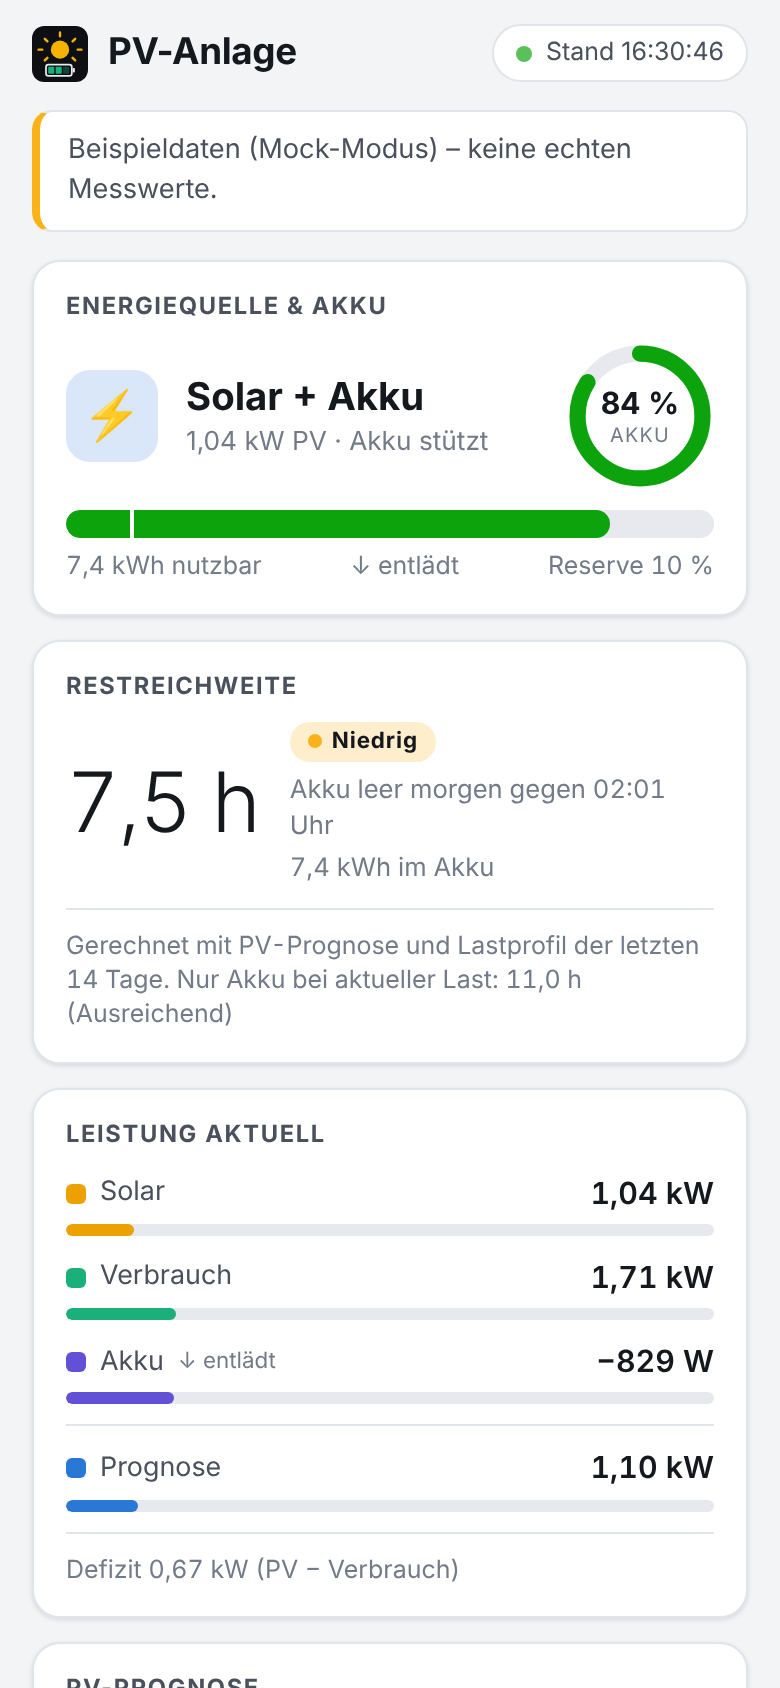
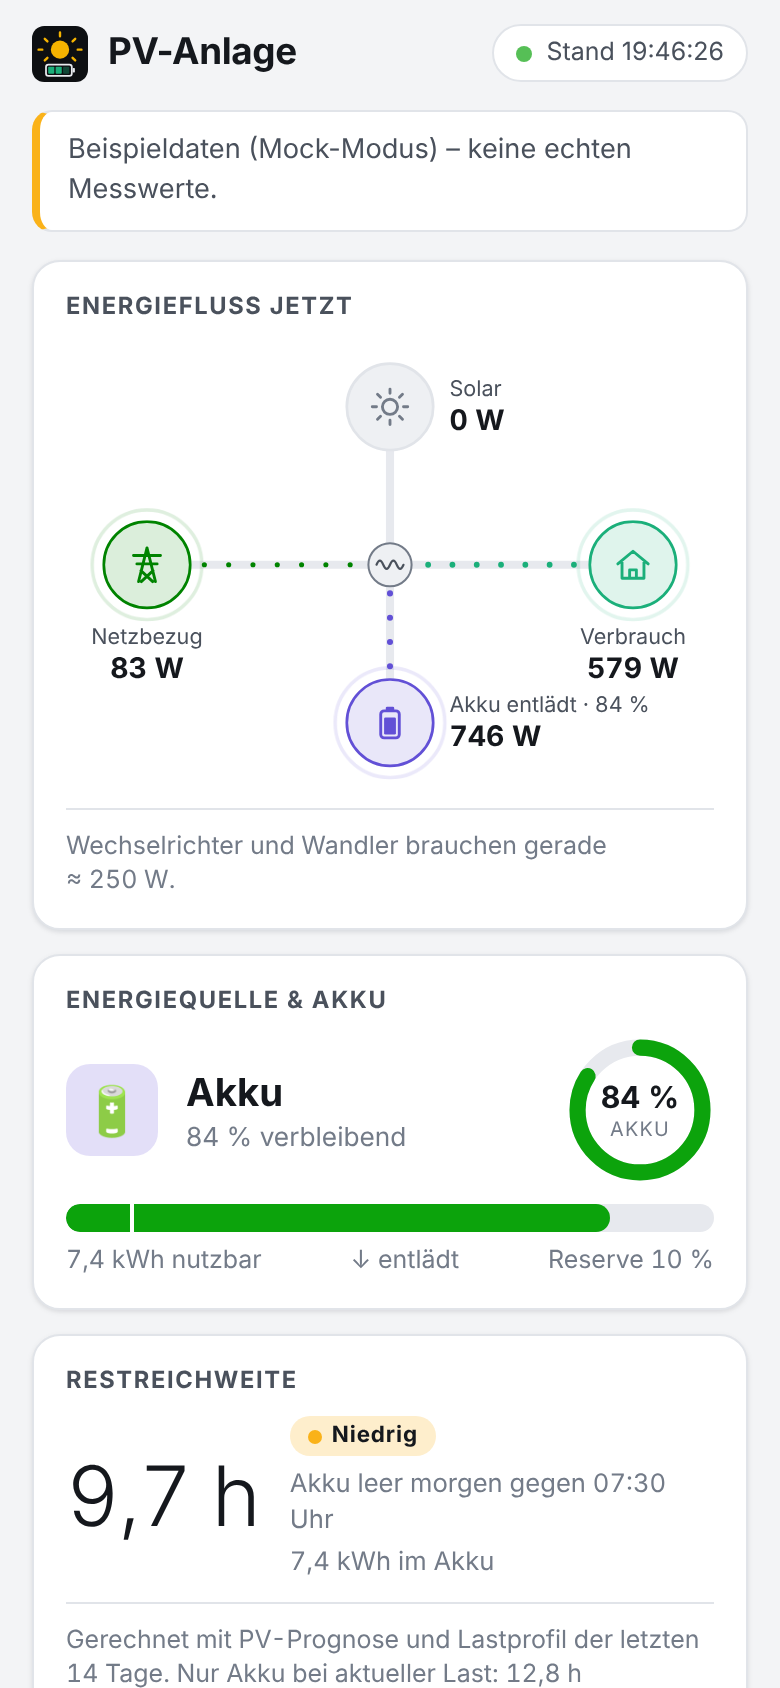
Energiefluss als animierte Grafik oben (1.4.0)
- Neue Karte "Energiefluss jetzt": PV oben, Netz links, Haus rechts, Akku
  unten, Wechselrichter in der Mitte. Punkte laufen in Flussrichtung, Tempo
  und Strichstärke wachsen mit der Leistung; Einspeisung und Entladen laufen
  rückwärts. Akku-Symbol zeigt den Ladezustand. Darunter der momentane
  Eigenverbrauch von Wechselrichter und Wandlern. Bei "Bewegung reduzieren"
  steht die Animation; Textalternative für Screenreader.
- Desktop: Grafik über zwei Spalten und drei Zeilen, rechts Energiequelle,
  Reichweite und Leistung.
- API: neues Feld grid_w (Netzleistung, Bezug positiv) aus
  measurements.grid oder dem MQTT-Eingang von SolarDaily (nur frische Werte).
- Leistungsangaben mit geschütztem Leerzeichen vor der Einheit.
- README, Beispielkonfiguration und Screenshots (Mock) aktualisiert;
  Service-Worker-Cache v6.

diff --git a/web/app.js b/web/app.js
@@ -20,7 +20,7 @@
   /* ---------- Formatierung ---------- */
   function fmtW(w) {
     if (!isNum(w)) return '–';
-    return Math.abs(w) >= 1000 ? NF2.format(w / 1000) + ' kW' : NF0.format(Math.round(w)) + ' W';
+    return Math.abs(w) >= 1000 ? NF2.format(w / 1000) + '\u00a0kW' : NF0.format(Math.round(w)) + '\u00a0W';
   }
   const fmtKwh = v => (isNum(v) ? NF1.format(v) + ' kWh' : '–');
   const fmtPct = v => (isNum(v) ? NF1.format(v) + ' %' : '–');
@@ -77,6 +77,8 @@
 
   /* ---------- Rendern ---------- */
   function render(d) {
+    renderFlow(d);
+
     // Energiequelle + Ring
     const src = sourceInfo(d);
     const icon = $('srcIcon');
@@ -175,6 +177,74 @@
       .map(([k, v, key]) => d['bilanz_plausibel_' + key] === false ? k + ' – (' + IMPLAUSIBLE + ')' : isNum(v) ? k + ' ' + NF1.format(v) + ' kWh' : null)
       .filter(Boolean);
     setText('sysOwnLine', own.length ? 'Eigenverbrauch der Anlage: ' + own.join(' · ') : '');
+  }
+
+  /* ---------- Energiefluss ---------- */
+  // Leitungen sind gezeichnet: PV -> WR, Netz -> WR, WR -> Haus, WR -> Akku. Positive Leistung
+  // fliesst in Zeichenrichtung, negative (Einspeisung, Entladen) rueckwaerts.
+  const FLOW_MIN_W = 10;
+
+  function setFlow(id, w, minW) {
+    const el = $(id);
+    const on = isNum(w) && Math.abs(w) >= minW;
+    el.classList.toggle('off', !on);
+    el.classList.toggle('rev', on && w < 0);
+    if (!on) return false;
+    // Tempo und Strichstaerke wachsen mit der Leistung (Wurzel: kleine Fluesse bleiben sichtbar)
+    const ref = Math.max(meta.display.maxPvW, meta.display.maxLoadW, 1);
+    const k = Math.sqrt(Math.min(1, Math.abs(w) / ref));
+    const dur = (3 - 2.5 * k).toFixed(1) + 's';
+    if (el.style.animationDuration !== dur) el.style.animationDuration = dur;
+    el.style.strokeWidth = (3.5 + 3.5 * k).toFixed(1);
+    return true;
+  }
+
+  function setVal(id, text, na) {
+    setText(id, text);
+    $(id).classList.toggle('na', !!na);
+  }
+
+  function renderFlow(d) {
+    const pv = d.pv_w, load = d.load_w, bat = d.bat_w, grid = d.grid_w;
+
+    $('nPv').classList.toggle('on', setFlow('flPv', pv, FLOW_MIN_W));
+    setVal('vPv', fmtW(pv));
+
+    $('nLoad').classList.toggle('on', setFlow('flLoad', load, FLOW_MIN_W));
+    setVal('vLoad', fmtW(load));
+
+    const gridOn = setFlow('flGrid', grid, FLOW_MIN_W);
+    $('nGrid').classList.toggle('on', gridOn);
+    setText('lGrid', !isNum(grid) ? 'Netz' : !gridOn ? 'Netz' : grid > 0 ? 'Netzbezug' : 'Einspeisung');
+    setVal('vGrid', isNum(grid) ? fmtW(gridOn ? Math.abs(grid) : 0) : '–', !isNum(grid));
+
+    // Akku: Schwelle wie bat_direction (± 50 W = Ruhe)
+    const batOn = setFlow('flBat', bat, 50);
+    $('nBat').classList.toggle('on', batOn);
+    const soc = isNum(d.soc) ? Math.min(100, Math.max(0, d.soc)) : null;
+    setText('lBat', 'Akku ' + (batOn ? (bat > 0 ? 'lädt' : 'entlädt') : 'in Ruhe') + (soc !== null ? ' · ' + NF0.format(soc) + ' %' : ''));
+    setVal('vBat', isNum(bat) ? fmtW(Math.abs(bat)) : '–');
+    const lvl = $('batLevel');
+    const h = soc !== null ? 12 * soc / 100 : 0;
+    lvl.setAttribute('height', h.toFixed(2));
+    lvl.setAttribute('y', (19 - h).toFixed(2));
+
+    // Rest = Eigenverbrauch der Anlage (Momentaufnahme; Werte nicht zeitgleich gemessen)
+    let note = '';
+    if (!isNum(grid)) {
+      note = 'Netzleistung nicht konfiguriert (measurements.grid oder SolarDaily mit MQTT).';
+    } else if (isNum(pv) && isNum(load) && isNum(bat)) {
+      const own = pv + grid - load - bat;
+      if (own >= 0) note = 'Wechselrichter und Wandler brauchen gerade ≈\u00a0' + fmtW(own) + '.';
+    }
+    setText('flowNote', note);
+
+    const parts = ['Solar ' + fmtW(pv)];
+    if (isNum(grid)) parts.push(gridOn ? (grid < 0 ? 'Einspeisung ' : 'Netzbezug ') + fmtW(Math.abs(grid)) : 'Netz 0 W');
+    parts.push('Verbrauch ' + fmtW(load));
+    if (isNum(bat)) parts.push('Akku ' + (batOn ? (bat > 0 ? 'lädt ' : 'entlädt ') + fmtW(Math.abs(bat)) : 'in Ruhe'));
+    if (soc !== null) parts.push('Ladezustand ' + NF0.format(soc) + ' %');
+    setText('flowTitle', 'Energiefluss: ' + parts.join(', '));
   }
 
   /* ---------- Energiebilanz heute ---------- */

diff --git a/web/index.html b/web/index.html
@@ -32,6 +32,73 @@
   <div class="notice" id="notice" hidden></div>
 
   <main class="grid">
+    <!-- Energiefluss: PV oben, Netz links, Haus rechts, Akku unten, Wechselrichter in der Mitte -->
+    <section class="card flow" aria-labelledby="h-flow">
+      <h2 id="h-flow">Energiefluss jetzt</h2>
+      <svg class="flow-svg num" viewBox="0 0 480 330" role="img" aria-labelledby="flowTitle">
+        <title id="flowTitle">Energiefluss</title>
+        <g class="flow-lines">
+          <path class="line-track" d="M240 80V149"></path>
+          <path class="line-track" d="M92 165H224"></path>
+          <path class="line-track" d="M256 165H388"></path>
+          <path class="line-track" d="M240 181V250"></path>
+          <path class="line-flow f-pv off" id="flPv" d="M240 80V149"></path>
+          <path class="line-flow f-grid off" id="flGrid" d="M92 165H224"></path>
+          <path class="line-flow f-load off" id="flLoad" d="M256 165H388"></path>
+          <path class="line-flow f-bat off" id="flBat" d="M240 181V250"></path>
+        </g>
+
+        <g class="hub">
+          <circle cx="240" cy="165" r="16"></circle>
+          <path d="M230 165q2.5-6 5 0t5 0t5 0t5 0"></path>
+        </g>
+
+        <g class="node n-pv" id="nPv" transform="translate(240 48)">
+          <circle class="pulse" r="32"></circle>
+          <circle class="disc" r="32"></circle>
+          <g class="ico" transform="translate(-15 -15) scale(1.25)">
+            <circle cx="12" cy="12" r="4.5"></circle>
+            <path class="rays" d="M12 1.5v2.5M12 20v2.5M1.5 12H4M20 12h2.5M4.6 4.6l1.8 1.8M17.6 17.6l1.8 1.8M4.6 19.4l1.8-1.8M17.6 6.4l1.8-1.8"></path>
+          </g>
+        </g>
+        <text class="lbl" x="284" y="40">Solar</text>
+        <text class="val" id="vPv" x="284" y="65">–</text>
+
+        <g class="node n-grid" id="nGrid" transform="translate(60 165)">
+          <circle class="pulse" r="32"></circle>
+          <circle class="disc" r="32"></circle>
+          <g class="ico" transform="translate(-15 -15) scale(1.25)">
+            <path d="M12 2 7 22M12 2l5 20M4 6.5h16M6 11.5h12M8.4 15.5l7 6.5M15.6 15.5l-7 6.5"></path>
+          </g>
+        </g>
+        <text class="lbl mid" id="lGrid" x="60" y="224">Netz</text>
+        <text class="val mid" id="vGrid" x="60" y="249">–</text>
+
+        <g class="node n-load" id="nLoad" transform="translate(420 165)">
+          <circle class="pulse" r="32"></circle>
+          <circle class="disc" r="32"></circle>
+          <g class="ico" transform="translate(-15 -15) scale(1.25)">
+            <path d="M3 11.5 12 4l9 7.5M5.5 9.5V20h13V9.5M10 20v-5h4v5"></path>
+          </g>
+        </g>
+        <text class="lbl mid" x="420" y="224">Verbrauch</text>
+        <text class="val mid" id="vLoad" x="420" y="249">–</text>
+
+        <g class="node n-bat" id="nBat" transform="translate(240 282)">
+          <circle class="pulse" r="32"></circle>
+          <circle class="disc" r="32"></circle>
+          <g class="ico" transform="translate(-15 -15) scale(1.25)">
+            <rect x="6.5" y="5" width="11" height="16" rx="2"></rect>
+            <rect class="cap" x="9.5" y="2.5" width="5" height="2.5" rx="0.8"></rect>
+            <rect class="level" id="batLevel" x="8.5" y="19" width="7" height="0" rx="0.8"></rect>
+          </g>
+        </g>
+        <text class="lbl" id="lBat" x="284" y="274">Akku</text>
+        <text class="val" id="vBat" x="284" y="299">–</text>
+      </svg>
+      <div class="sub-line muted num" id="flowNote"></div>
+    </section>
+
     <!-- Energiequelle + Akku -->
     <section class="card source" aria-labelledby="h-source">
       <h2 id="h-source">Energiequelle &amp; Akku</h2>

diff --git a/web/app.css b/web/app.css
@@ -242,6 +242,54 @@ body {
 .table-wrap td { text-align: right; padding: 4px 8px; border-bottom: 1px solid var(--border); }
 .table-wrap th:first-child, .table-wrap td:first-child { text-align: left; }
 
+/* ---------- Energiefluss ---------- */
+@media (min-width: 720px) { .card.flow { grid-column: 1 / -1; } }
+/* breit: Grafik links ueber drei Zeilen, rechts Energiequelle, Reichweite, Leistung untereinander */
+@media (min-width: 1120px) {
+  .card.flow { grid-column: span 2; grid-row: span 3; display: flex; flex-direction: column; }
+  .card.flow .flow-svg { max-width: 660px; max-height: 470px; margin: auto; }
+}
+.flow-svg { display: block; width: 100%; max-width: 560px; max-height: 400px; margin: 0 auto; overflow: visible; }
+.flow-svg .line-track { fill: none; stroke: var(--track); stroke-width: 6; stroke-linecap: round; }
+.flow-svg .line-flow {
+  fill: none; stroke-width: 5; stroke-linecap: round; stroke-dasharray: 0 18;
+  animation: flow-dots 1.6s linear infinite; transition: opacity .4s;
+}
+.flow-svg .line-flow.rev { animation-direction: reverse; }
+.flow-svg .line-flow.off { opacity: 0; }
+.flow-svg .f-pv { stroke: var(--pv); }
+.flow-svg .f-grid { stroke: var(--grid); }
+.flow-svg .f-load { stroke: var(--load); }
+.flow-svg .f-bat { stroke: var(--bat); }
+@keyframes flow-dots { to { stroke-dashoffset: -18; } }
+
+.flow-svg .hub circle { fill: var(--card-2); stroke: var(--ink-3); stroke-width: 1.5; }
+.flow-svg .hub path { fill: none; stroke: var(--ink-2); stroke-width: 1.6; stroke-linecap: round; }
+
+.flow-svg .node { --c: var(--ink-3); }
+.flow-svg .n-pv { --c: var(--pv); }
+.flow-svg .n-grid { --c: var(--grid); }
+.flow-svg .n-load { --c: var(--load); }
+.flow-svg .n-bat { --c: var(--bat); }
+.flow-svg .disc { fill: var(--card-2); stroke: var(--border); stroke-width: 2; transition: fill .4s, stroke .4s; }
+.flow-svg .ico { fill: none; stroke: var(--ink-3); stroke-width: 1.7; stroke-linecap: round; stroke-linejoin: round; transition: stroke .4s; }
+.flow-svg .ico .cap { fill: var(--ink-3); stroke: none; }
+.flow-svg .ico .level { fill: var(--ink-3); stroke: none; }
+.flow-svg .node.on .disc { fill: color-mix(in srgb, var(--c) 14%, var(--card)); stroke: var(--c); }
+.flow-svg .node.on .ico { stroke: var(--c); }
+.flow-svg .node.on .ico .cap, .flow-svg .node.on .ico .level { fill: var(--c); }
+.flow-svg .pulse { fill: none; stroke: var(--c); stroke-width: 2; opacity: 0; transform-box: fill-box; transform-origin: center; }
+.flow-svg .node.on .pulse { animation: node-pulse 2.6s ease-out infinite; }
+@keyframes node-pulse { from { opacity: .55; transform: scale(1); } to { opacity: 0; transform: scale(1.35); } }
+.flow-svg .n-pv.on .rays { transform-box: fill-box; transform-origin: center; animation: sun-turn 24s linear infinite; }
+@keyframes sun-turn { to { transform: rotate(360deg); } }
+
+.flow-svg text { fill: var(--ink); }
+.flow-svg .lbl { font-size: 16px; fill: var(--ink-2); }
+.flow-svg .val { font-size: 21px; font-weight: 650; }
+.flow-svg .mid { text-anchor: middle; }
+.flow-svg .na { fill: var(--ink-3); font-weight: 400; }
+
 .foot { max-width: 1240px; margin: 16px auto 0; font-size: 0.72rem; text-align: center; }
 
 @media (prefers-reduced-motion: reduce) {

diff --git a/test/metrics.test.js b/test/metrics.test.js
@@ -46,7 +46,7 @@ test('Zeit: lokale Mitternacht und Ankerzeiten folgen der Sommer-/Winterzeit', (
 test('Felder: zuerst alle der Beispielantwort in gleicher Reihenfolge, danach die Prognose-Ergaenzungen', () => {
     const sample = JSON.parse(fs.readFileSync(path.join(__dirname, '..', 'reference', 'sample', 'pv-data.example.json'), 'utf8'));
     const out = m.computePayload(raw(), null, OPTS);
-    assert.deepEqual(Object.keys(out), [...Object.keys(sample), ...['forecast_today_kwh', 'forecast_today_remaining_kwh', 'forecast_tomorrow_peak_w', 'forecast_tomorrow_peak_ts', 'forecast_yesterday_kwh', 'actual_yesterday_kwh', 'smart_range_empty_ts', 'smart_range_min_kwh', 'smart_range_min_ts', 'smart_range_until_ts', 'smart_range_basis', 'daily_bat_in_kwh', 'daily_bat_out_kwh', 'system_own_woche_kwh', 'system_own_season_kwh', 'system_own_jahr_kwh', 'bilanz_plausibel_heute', 'bilanz_plausibel_woche', 'bilanz_plausibel_season', 'bilanz_plausibel_jahr']]);
+    assert.deepEqual(Object.keys(out), [...Object.keys(sample), ...['forecast_today_kwh', 'forecast_today_remaining_kwh', 'forecast_tomorrow_peak_w', 'forecast_tomorrow_peak_ts', 'forecast_yesterday_kwh', 'actual_yesterday_kwh', 'smart_range_empty_ts', 'smart_range_min_kwh', 'smart_range_min_ts', 'smart_range_until_ts', 'smart_range_basis', 'daily_bat_in_kwh', 'daily_bat_out_kwh', 'system_own_woche_kwh', 'system_own_season_kwh', 'system_own_jahr_kwh', 'bilanz_plausibel_heute', 'bilanz_plausibel_woche', 'bilanz_plausibel_season', 'bilanz_plausibel_jahr', 'grid_w']]);
 });
 
 
@@ -281,6 +281,8 @@ test('WR-Eigenverbrauch, Akku-Richtung, Rundung', () => {
     assert.equal(m.computePayload(raw({ bat_w: -50 }), null, OPTS).bat_direction, 'idle');
     assert.equal(m.computePayload(raw({ forecast_tomorrow_kwh: 12.46 }), null, OPTS).forecast_tomorrow_kwh, 12.5);
     assert.equal(out.ts, '2026-06-15T10:00:00.000Z');
+    assert.equal(out.grid_w, null);
+    assert.equal(m.computePayload(raw({ grid_w: -120.6 }), null, OPTS).grid_w, -121);
 });
 
 

diff --git a/test/server.test.js b/test/server.test.js
@@ -30,7 +30,7 @@ test('Mock-Modus: /api/pv liefert alle Felder der Beispielantwort mit passenden 
         assert.equal(res.status, 200);
         assert.equal(res.headers.get('access-control-allow-origin'), '*');
         const body = await res.json();
-        const expected = [...Object.keys(sample), ...['forecast_today_kwh', 'forecast_today_remaining_kwh', 'forecast_tomorrow_peak_w', 'forecast_tomorrow_peak_ts', 'forecast_yesterday_kwh', 'actual_yesterday_kwh', 'smart_range_empty_ts', 'smart_range_min_kwh', 'smart_range_min_ts', 'smart_range_until_ts', 'smart_range_basis', 'daily_bat_in_kwh', 'daily_bat_out_kwh', 'system_own_woche_kwh', 'system_own_season_kwh', 'system_own_jahr_kwh', 'bilanz_plausibel_heute', 'bilanz_plausibel_woche', 'bilanz_plausibel_season', 'bilanz_plausibel_jahr']];
+        const expected = [...Object.keys(sample), ...['forecast_today_kwh', 'forecast_today_remaining_kwh', 'forecast_tomorrow_peak_w', 'forecast_tomorrow_peak_ts', 'forecast_yesterday_kwh', 'actual_yesterday_kwh', 'smart_range_empty_ts', 'smart_range_min_kwh', 'smart_range_min_ts', 'smart_range_until_ts', 'smart_range_basis', 'daily_bat_in_kwh', 'daily_bat_out_kwh', 'system_own_woche_kwh', 'system_own_season_kwh', 'system_own_jahr_kwh', 'bilanz_plausibel_heute', 'bilanz_plausibel_woche', 'bilanz_plausibel_season', 'bilanz_plausibel_jahr', 'grid_w']];
         assert.deepEqual(Object.keys(body), expected);
         for (const [k, v] of Object.entries(sample)) {
             if (v === null || body[k] === null) continue;

diff --git a/test/source.test.js b/test/source.test.js
@@ -81,6 +81,7 @@ test('Live-Zyklus: eine Mehrfach-Query, lokale Ankerfenster, tz()-Tagesbuckets, 
         if (q.includes('"pv"')) return [[now, 0]];
         if (q.includes('"load"')) return [[now, 2000]];
         if (q.includes('"bat"')) return [[now, -1900]];
+        if (q.includes('"grid"')) return [[now, 120.4]];
         if (q.includes('last("value")') && q.includes('"fc"')) return null;     // keine aktuelle Prognose
         if (q.includes('GROUP BY time(1d)')) return Array.from({ length: 33 }, (_, i) => [now - (32 - i) * 86400_000, i === 32 ? 9 : 10]);
         if (q.includes('first("value")') && q.includes('04:45:00')) return [[now, 3.2]];
@@ -117,6 +118,8 @@ test('Live-Zyklus: eine Mehrfach-Query, lokale Ankerfenster, tz()-Tagesbuckets, 
         assert.equal(d.soc, 64);
         assert.equal(d.load_w, 2000);
         assert.equal(d.bat_w, -1900);
+        assert.equal(d.grid_w, 120.4);
+        assert.match(q, /SELECT last\("value"\) AS "v" FROM "testdb"\."autogen"\."grid"/);
         assert.equal(d.forecast_w, null);
         assert.ok(!q.includes('sum("value")'), 'Prognosesumme nicht mehr im Live-Zyklus');
         assert.equal(d.daily_load_kwh, 9);

diff --git a/lib/source.js b/lib/source.js
@@ -66,6 +66,9 @@ class InfluxSource {
             ['load_w', `SELECT last("value") AS "v" FROM ${c.from(this.m.load)}`],
             ['bat_w', `SELECT last("value") AS "v" FROM ${c.from(this.m.battery)}`],
         ];
+        if (this.m.grid) {
+            list.push(['grid_w', `SELECT last("value") AS "v" FROM ${c.from(this.m.grid)}`]);
+        }
         if (this.m.forecast) {
             list.push(['forecast_w', `SELECT last("value") AS "v" FROM ${c.from(this.m.forecast)} WHERE time <= now() AND time >= now() - 1h`]);
         }
@@ -93,7 +96,7 @@ class InfluxSource {
         const list = this.liveStatements(now, { withDaily: !dailyOverride });
         const results = await this.client.query(list.map(([, q]) => q));
         const d = {
-            soc: null, pv_w: null, load_w: null, bat_w: null, forecast_w: null,
+            soc: null, pv_w: null, load_w: null, bat_w: null, grid_w: null, forecast_w: null,
             daily_pv_kwh: null, daily_load_kwh: null, daily_grid_kwh: null, daily_bat_in: null, daily_bat_out: null,
             avg_rows: [], anchor_06: null, anchor_17: null,
         };

diff --git a/test/solardaily.test.js b/test/solardaily.test.js
@@ -134,6 +134,18 @@ test('Netz: nur Bezug zaehlt, Einspeisung ignoriert, Zeitstempel laeuft weiter',
 });
 
 
+test('liveWatts: letzter Momentanwert, nur solange er frisch ist', () => {
+    const s = sd({ batteryChargePositive: false });
+    assert.equal(s.liveWatts('grid', at(10)), null);
+    s.sample('grid', -300, at(10));
+    s.sample('battery', 800, at(10));
+    assert.equal(s.liveWatts('grid', at(10, 4)), -300);     // Einspeisung bleibt negativ
+    assert.equal(s.liveWatts('battery', at(10, 1)), -800);  // Vorzeichen bereits angewandt
+    assert.equal(s.liveWatts('grid', at(10, 6)), null);     // aelter als 5 min
+    assert.equal(s.liveWatts('unbekannt', at(10)), null);
+});
+
+
 test('Ungueltige Werte werden ignoriert', () => {
     const s = sd();
     assert.equal(s.sample('pv', NaN, at(12)), 0);

diff --git a/lib/solardaily.js b/lib/solardaily.js
@@ -174,6 +174,17 @@ class SolarDaily {
         this.save(false, now);
     }
 
+    /**
+     * Letzter Momentanwert (W) eines Kanals, solange er nicht aelter als maxGapMinutes ist.
+     * Akku mit bereits angewandtem Vorzeichen (Laden positiv), Netz: Bezug positiv.
+     */
+    liveWatts(channel, now = Date.now()) {
+        const last = this.state.last[channel];
+        if (!last || !isNum(last.w) || !isNum(last.ts)) return null;
+        const age = now - last.ts;
+        return age >= 0 && age <= this.maxGapMs ? last.w : null;
+    }
+
     /** Millisekunden bis zur naechsten lokalen Mitternacht. */
     msUntilMidnight(now = Date.now()) {
         return startOfLocalDay(now, this.tz, 1) - now;

diff --git a/lib/mock.js b/lib/mock.js
@@ -50,6 +50,7 @@ class MockSource {
         const load_w = Math.round(load(h) * (1 - wiggle));
         const surplus = pv_w - load_w - SYSTEM_W;
         const bat_w = Math.round(surplus >= 0 ? surplus : surplus * 0.9);
+        const grid_w = Math.round(surplus >= 0 ? 0 : -surplus * 0.1);
         const soc = Math.round(35 + 50 * sun(Math.min(h, 16)) + (h > 16 ? 15 : 0));
 
         const daily_pv_kwh = round2(integrate(pvAt, h));
@@ -73,6 +74,7 @@ class MockSource {
                 pv_w,
                 load_w,
                 bat_w,
+                grid_w,
                 forecast_w: Math.round(pvAt(h) * 1.08),
                 daily_pv_kwh,
                 daily_load_kwh,

diff --git a/config.example.js b/config.example.js
@@ -65,7 +65,7 @@ module.exports = {
         pv: 'pv_power',                 // W
         load: 'load_power',             // W
         battery: 'battery_power',       // W, Laden positiv
-        grid: 'grid_power',             // W, Bezug positiv (nur fuer SolarDaily mit input 'influx')
+        grid: 'grid_power',             // W, Bezug positiv – Energiefluss und SolarDaily mit input 'influx'
         forecast: 'pv_forecast_power',  // W, Prognosewerte mit zukuenftigen Zeitstempeln (beliebiges Raster)
         daily: {                        // kWh, Tageszaehler mit Reset um 00:00
             pv: 'daily_pv_production',

diff --git a/lib/app.js b/lib/app.js
@@ -73,6 +73,7 @@ class App {
         try {
             const daily = this.solardaily ? this.solardaily.dailyValues(now) : null;
             const { d, errors } = await this.source.live(now, daily);
+            if ((d.grid_w === null || d.grid_w === undefined) && this.solardaily) d.grid_w = this.solardaily.liveWatts('grid', now);
             if (this.forecast) Object.assign(d, this.forecast.summary);
             this.payload = computePayload(d, this.quoten, {
                 capacityKwh: this.cfg.battery.capacityKwh,
